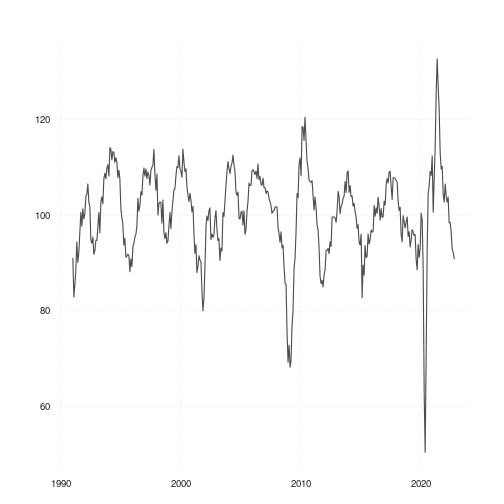
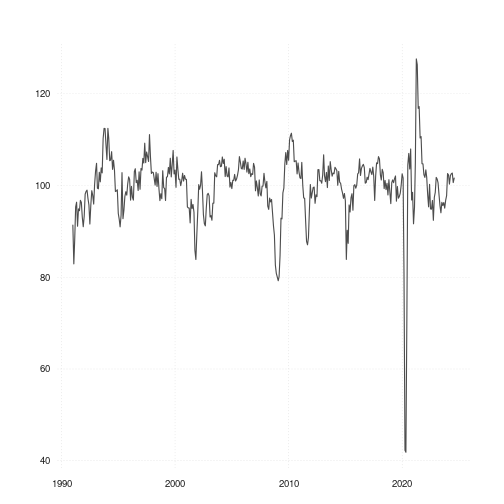
Update README.md via GH Actions

diff --git a/README.md b/README.md
@@ -13,7 +13,7 @@ We stop short of creating HTML documents as GitHub renders markdown by default. 
 ## KOF Economic Barometer
 
 
-```r
+``` r
 library(kofdata)
 library(tsbox)
 
@@ -23,12 +23,12 @@ ts_plot(tsl$ch.kof.barometer)
 
 ![plot of chunk unnamed-chunk-1](figure/unnamed-chunk-1-1.png)
 
-```r
+``` r
 cat(sprintf("last update on %s.", as.character(Sys.Date())))
 ```
 
 ```
-## last update on 2022-11-18.
+## last update on 2024-09-20.
 ```
 
 
